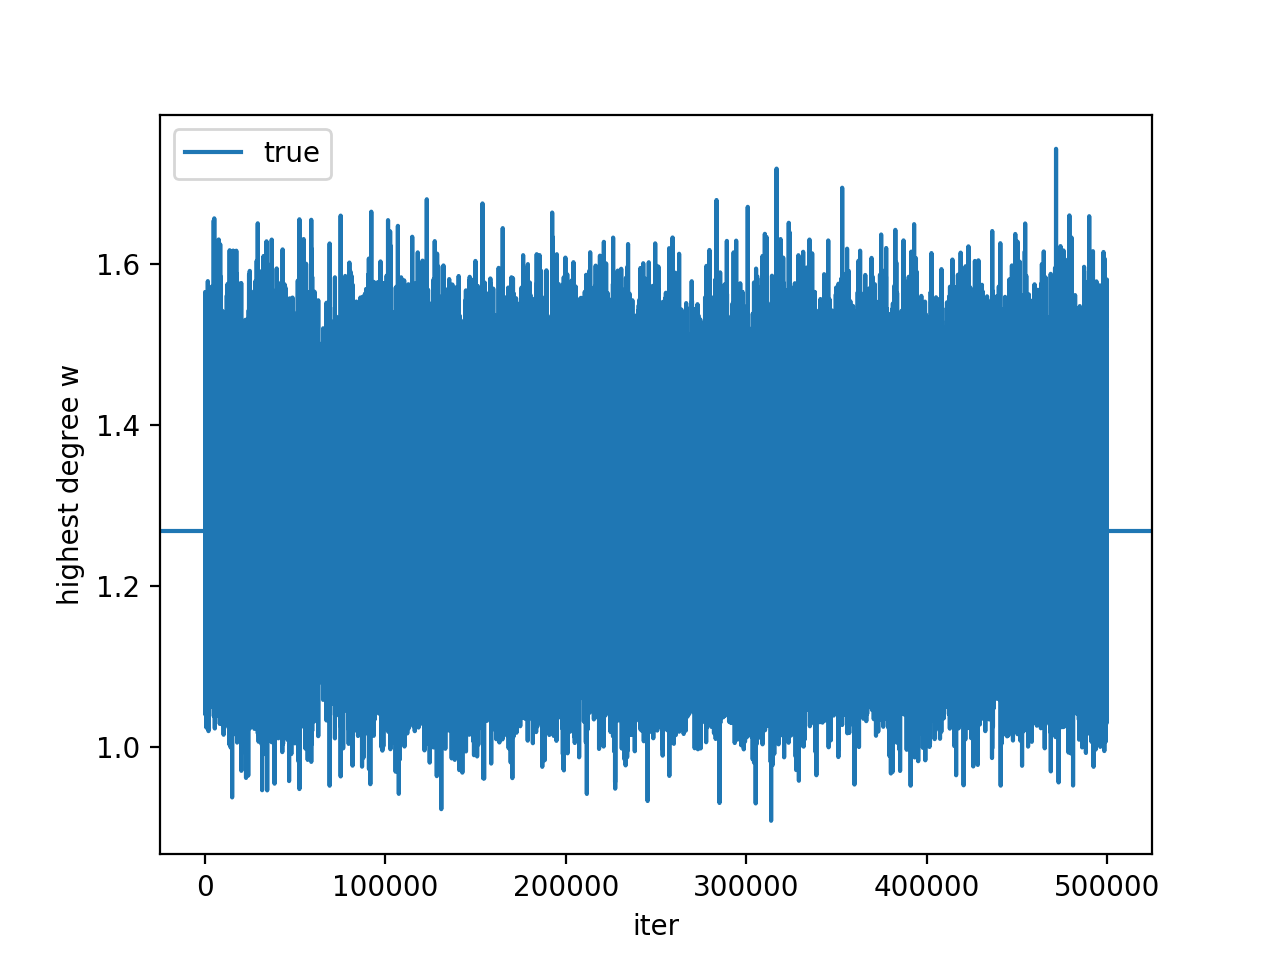
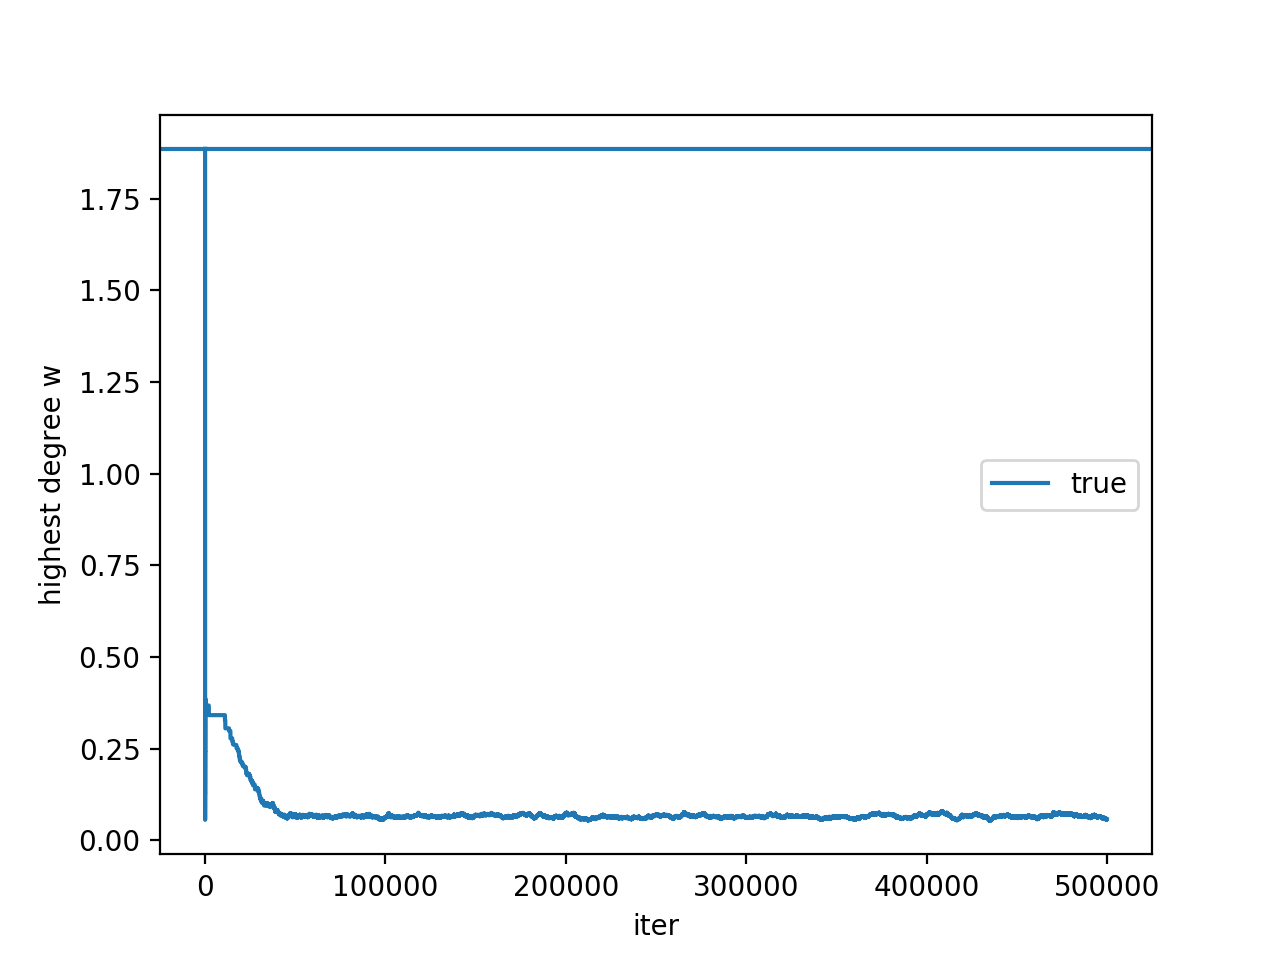
experiment 3 chains rand3

diff --git a/PosteriorInferenceNew.py b/PosteriorInferenceNew.py
@@ -16,12 +16,12 @@ sigma = 0.4  # shape generalized gamma process
 c = 2  # rate generalized gamma process
 tau = 5  # only for doublepl
 
-gamma = 2  # exponent distance in the link probability
+gamma = 0  # exponent distance in the link probability
 size_x = 1  # space threshold: [0, size_x]
 
 K = 100  # number of layers, for layers sampler
 T = 0.000001  # threshold for simulations of weights from truncated infinite activity CRMs
-L = 1000  # tot number of nodes in finite approx of weights simulations (exptiltBFRY)
+L = 2000  # tot number of nodes in finite approx of weights simulations (exptiltBFRY)
 
 # prior parameters of t \sim gamma(a_t, b_t)
 a_t = 200
@@ -269,6 +269,7 @@ w_inference = 'HMC'
 #                    sigma_true=sigma, c_true=c, t_true=t, tau_true=tau,
 #                    w0_true=w0, w_true=w, beta_true=beta, n_true=n, u_true=u)
 # end = time.time()
+# print('minutes to produce the sample (true): ', round((end - start) / 60, 2))
 
 start2 = time.time()
 output2 = mcmc.MCMC(prior, G, gamma, size, iter, nburn, p_ij=p_ij,
@@ -325,8 +326,6 @@ print('minutes to produce the sample (chain 3 rand): ', round((end4 - start4) / 
 # true0_in_ci = [emp0_ci_95[i][0] <= w[i] <= emp0_ci_95[i][1] for i in range(size)]
 # print('posterior coverage of true w in chain 1 = ', sum(true0_in_ci) / len(true0_in_ci) * 100, '%')
 
-# print('minutes to produce the sample (true): ', round((end - start) / 60, 2))
-
 
 # # ----------------------------------
 # # All together - TRUE INIT
@@ -339,7 +338,7 @@ print('minutes to produce the sample (chain 3 rand): ', round((end4 - start4) / 
 # plt.axhline(y=log_post, color='r')
 # plt.xlabel('iter')
 # plt.ylabel('log_post')
-# plt.savefig('images/all_trueinit2/logpost')
+# plt.savefig('images/all_trueinit3/logpost')
 # plt.close()
 #
 # plt.figure()
@@ -348,7 +347,7 @@ print('minutes to produce the sample (chain 3 rand): ', round((end4 - start4) / 
 # plt.axhline(y=sigma, label='true', color='r')
 # plt.xlabel('iter')
 # plt.ylabel('sigma')
-# plt.savefig('images/all_trueinit2/sigma')
+# plt.savefig('images/all_trueinit3/sigma')
 # plt.close()
 #
 # plt.figure()
@@ -357,7 +356,7 @@ print('minutes to produce the sample (chain 3 rand): ', round((end4 - start4) / 
 # plt.axhline(y=c, color='r')
 # plt.xlabel('iter')
 # plt.ylabel('c')
-# plt.savefig('images/all_trueinit2/c')
+# plt.savefig('images/all_trueinit3/c')
 # plt.close()
 #
 # plt.figure()
@@ -366,7 +365,7 @@ print('minutes to produce the sample (chain 3 rand): ', round((end4 - start4) / 
 # plt.axhline(y=t, color='r')
 # plt.xlabel('iter')
 # plt.ylabel('t')
-# plt.savefig('images/all_trueinit2/t')
+# plt.savefig('images/all_trueinit3/t')
 # plt.close()
 #
 # plt.figure()
@@ -380,7 +379,7 @@ print('minutes to produce the sample (chain 3 rand): ', round((end4 - start4) / 
 # plt.xlabel('iter')
 # plt.ylabel('highest degree w')
 # plt.legend()
-# plt.savefig('images/all_trueinit2/w0_trace')
+# plt.savefig('images/all_trueinit3/w0_trace')
 # plt.close()
 # # plot empirical 95% ci for highest and lowest degrees nodes
 # plt.figure()
@@ -432,7 +431,7 @@ print('minutes to produce the sample (chain 3 rand): ', round((end4 - start4) / 
 #     plt.plot(i + 1, np.log(small_w[i]), color='navy', marker='o', markersize=5)
 # plt.ylabel('log w')
 # plt.subplots_adjust(left=None, bottom=None, right=None, top=None, wspace=0.5, hspace=None)
-# plt.savefig('images/all_trueinit2/w0_CI')
+# plt.savefig('images/all_trueinit3/w0_CI')
 # plt.close()
 #
 # # u_est = output[8]
@@ -448,17 +447,17 @@ print('minutes to produce the sample (chain 3 rand): ', round((end4 - start4) / 
 # plt.figure()
 # plt.acorr(output[3], detrend=plt.mlab.detrend_mean, maxlags=100)
 # plt.xlim(0, 100)
-# plt.savefig('images/all_trueinit2/autocor_sigma')
+# plt.savefig('images/all_trueinit3/autocor_sigma')
 # plt.close()
 # plt.figure()
 # plt.acorr(output[4], detrend=plt.mlab.detrend_mean, maxlags=100)
 # plt.xlim(0, 100)
-# plt.savefig('images/all_trueinit2/autocor_c')
+# plt.savefig('images/all_trueinit3/autocor_c')
 # plt.close()
 # plt.figure()
 # plt.acorr(output[5], detrend=plt.mlab.detrend_mean, maxlags=100)
 # plt.xlim(0, 100)
-# plt.savefig('images/all_trueinit2/autocor_t')
+# plt.savefig('images/all_trueinit3/autocor_t')
 # plt.close()
 
 # ----------------------------------
@@ -474,7 +473,7 @@ plt.plot(output4[10], color='blue')
 plt.axhline(y=log_post, label='true', color='r')
 plt.xlabel('iter')
 plt.ylabel('log_post')
-plt.savefig('images/all_rand2/log_post')
+plt.savefig('images/all_rand3/log_post')
 plt.close()
 
 plt.figure()
@@ -484,7 +483,7 @@ plt.plot(output4[3], color='blue')
 plt.axhline(y=sigma, label='true', color='r')
 plt.xlabel('iter')
 plt.ylabel('sigma')
-plt.savefig('images/all_rand2/sigma')
+plt.savefig('images/all_rand3/sigma')
 plt.close()
 
 plt.figure()
@@ -494,7 +493,7 @@ plt.plot(output4[4], color='blue')
 plt.axhline(y=c, label='true', color='r')
 plt.xlabel('iter')
 plt.ylabel('c')
-plt.savefig('images/all_rand2/c')
+plt.savefig('images/all_rand3/c')
 plt.close()
 
 plt.figure()
@@ -504,7 +503,7 @@ plt.plot(output4[5], color='blue')
 plt.axhline(y=t, label='true', color='r')
 plt.xlabel('iter')
 plt.ylabel('t')
-plt.savefig('images/all_rand2/t')
+plt.savefig('images/all_rand3/t')
 plt.close()
 
 # CHAIN 1
@@ -520,7 +519,7 @@ plt.axhline(y=biggest_w, label='true')
 plt.xlabel('iter')
 plt.ylabel('highest degree w')
 plt.legend()
-plt.savefig('images/all_rand2/w0_trace_chain1')
+plt.savefig('images/all_rand3/w0_trace_chain1')
 plt.close()
 # plot empirical 95% ci for highest and lowest degrees nodes
 plt.figure()
@@ -528,7 +527,8 @@ w_est_fin = [w_est[i] for i in range(nburn, iter)]
 emp0_ci_95 = [
     scipy.stats.mstats.mquantiles([w_est_fin[i][j] for i in range(iter - nburn)], prob=[0.025, 0.975])
     for j in range(size)]
-true0_in_ci = [emp0_ci_95[i][0] <= w[i] <= emp0_ci_95[i][1] for i in range(size)]
+print(sum([emp0_ci_95[i][0] <= w[i] <= emp0_ci_95[i][1] for i in range(size)]))
+# true0_in_ci = [emp0_ci_95[i][0] <= w[i] <= emp0_ci_95[i][1] for i in range(size)]
 # print('posterior coverage of true w in chain 1 = ', sum(true0_in_ci) / len(true0_in_ci) * 100, '%')
 deg = np.array(list(dict(G.degree()).values()))
 size = len(deg)
@@ -572,7 +572,7 @@ for i in range(num):
     plt.plot(i + 1, np.log(small_w[i]), color='navy', marker='o', markersize=5)
 plt.ylabel('log w')
 plt.subplots_adjust(left=None, bottom=None, right=None, top=None, wspace=0.5, hspace=None)
-plt.savefig('images/all_rand2/w0_CI_chain1')
+plt.savefig('images/all_rand3/w0_CI_chain1')
 plt.close()
 
 # u_est = output2[8]
@@ -596,7 +596,7 @@ plt.axhline(y=biggest_w, label='true')
 plt.xlabel('iter')
 plt.ylabel('highest degree w')
 plt.legend()
-plt.savefig('images/all_rand2/w0_trace_chain2')
+plt.savefig('images/all_rand3/w0_trace_chain2')
 plt.close()
 # plot empirical 95% ci for highest and lowest degrees nodes
 plt.figure()
@@ -648,7 +648,7 @@ for i in range(num):
     plt.plot(i + 1, np.log(small_w[i]), color='navy', marker='o', markersize=5)
 plt.ylabel('log w')
 plt.subplots_adjust(left=None, bottom=None, right=None, top=None, wspace=0.5, hspace=None)
-plt.savefig('images/all_rand2/w0_CI_chain2')
+plt.savefig('images/all_rand3/w0_CI_chain2')
 plt.close()
 
 # u_est = output3[8]
@@ -672,15 +672,14 @@ plt.axhline(y=biggest_w, label='true')
 plt.xlabel('iter')
 plt.ylabel('highest degree w')
 plt.legend()
-plt.savefig('images/all_rand2/w0_trace_chain3')
+plt.savefig('images/all_rand3/w0_trace_chain3')
 plt.close()
 # plot empirical 95% ci for highest and lowest degrees nodes
 plt.figure()
 w_est_fin = [w_est[i] for i in range(nburn, iter)]
-emp0_ci_95 = [
-    scipy.stats.mstats.mquantiles([w_est_fin[i][j] for i in range(iter - nburn)], prob=[0.025, 0.975])
-    for j in range(size)]
-true0_in_ci = [emp0_ci_95[i][0] <= w[i] <= emp0_ci_95[i][1] for i in range(size)]
+print(sum([emp0_ci_95[i][0] <= w[i] <= emp0_ci_95[i][1] for i in range(size)]))
+# print(sum([emp0_ci_95[i][0] <= w[i] <= emp0_ci_95[i][1] for i in range(size)]))
+# true0_in_ci = [emp0_ci_95[i][0] <= w[i] <= emp0_ci_95[i][1] for i in range(size)]
 # print('posterior coverage of true w in chain 3 = ', sum(true0_in_ci) / len(true0_in_ci) * 100, '%')
 deg = np.array(list(dict(G.degree()).values()))
 size = len(deg)
@@ -724,7 +723,7 @@ for i in range(num):
     plt.plot(i + 1, np.log(small_w[i]), color='navy', marker='o', markersize=5)
 plt.ylabel('log w')
 plt.subplots_adjust(left=None, bottom=None, right=None, top=None, wspace=0.5, hspace=None)
-plt.savefig('images/all_rand2/w0_CI_chain3')
+plt.savefig('images/all_rand3/w0_CI_chain3')
 plt.close()
 
 # u_est = output4[8]
@@ -740,47 +739,47 @@ plt.close()
 plt.figure()
 plt.acorr(output2[3], detrend=plt.mlab.detrend_mean, maxlags=100)
 plt.xlim(0, 100)
-plt.savefig('images/all_rand2/autocor_sigma_chain1')
+plt.savefig('images/all_rand3/autocor_sigma_chain1')
 plt.close()
 plt.figure()
 plt.acorr(output3[3], detrend=plt.mlab.detrend_mean, maxlags=100)
 plt.xlim(0, 100)
-plt.savefig('images/all_rand2/autocor_sigma_chain2')
+plt.savefig('images/all_rand3/autocor_sigma_chain2')
 plt.close()
 plt.figure()
 plt.acorr(output4[3], detrend=plt.mlab.detrend_mean, maxlags=100)
 plt.xlim(0, 100)
-plt.savefig('images/all_rand2/autocor_sigma_chain3')
+plt.savefig('images/all_rand3/autocor_sigma_chain3')
 plt.close()
 plt.figure()
 plt.acorr(output2[4], detrend=plt.mlab.detrend_mean, maxlags=100)
 plt.xlim(0, 100)
-plt.savefig('images/all_rand2/autocor_c_chain1')
+plt.savefig('images/all_rand3/autocor_c_chain1')
 plt.close()
 plt.figure()
 plt.acorr(output3[4], detrend=plt.mlab.detrend_mean, maxlags=100)
 plt.xlim(0, 100)
-plt.savefig('images/all_rand2/autocor_c_chain2')
+plt.savefig('images/all_rand3/autocor_c_chain2')
 plt.close()
 plt.figure()
 plt.acorr(output4[4], detrend=plt.mlab.detrend_mean, maxlags=100)
 plt.xlim(0, 100)
-plt.savefig('images/all_rand2/autocor_c_chain3')
+plt.savefig('images/all_rand3/autocor_c_chain3')
 plt.close()
 plt.figure()
 plt.acorr(output2[5], detrend=plt.mlab.detrend_mean, maxlags=100)
 plt.xlim(0, 100)
-plt.savefig('images/all_rand2/autocor_t_chain1')
+plt.savefig('images/all_rand3/autocor_t_chain1')
 plt.close()
 plt.figure()
 plt.acorr(output3[5], detrend=plt.mlab.detrend_mean, maxlags=100)
 plt.xlim(0, 100)
-plt.savefig('images/all_rand2/autocor_t_chain2')
+plt.savefig('images/all_rand3/autocor_t_chain2')
 plt.close()
 plt.figure()
 plt.acorr(output4[5], detrend=plt.mlab.detrend_mean, maxlags=100)
 plt.xlim(0, 100)
-plt.savefig('images/all_rand2/autocor_t_chain3')
+plt.savefig('images/all_rand3/autocor_t_chain3')
 plt.close()
 
 # Gelman Rubin

diff --git a/utils/UpdatesNew_fast.py b/utils/UpdatesNew_fast.py
@@ -174,35 +174,3 @@ def HMC_w(prior, w, w0, beta, n, u, sigma, c, t, tau, z, gamma, p_ij, a_t, b_t,
         log_post = log_post_prop
         log_post_param = log_post_par_prop
     return w, w0, beta, accept, rate, log_post, log_post_param
-
-
-# def HMC_w(prior, w, w0, beta, n, u, sigma, c, t, tau, z, gamma, p_ij, a_t, b_t,
-#           epsilon, R, accept, size, update_beta=True):
-#     sum_n0 = lil_matrix.sum(n, axis=0)
-#     sum_n1 = lil_matrix.sum(n, axis=1)
-#     sum_n = sum(sum_n0 + np.transpose(sum_n1))
-#     temp1 = sum_n + u - sigma
-#     pw_outer = np.dot(w, sum(w))
-#     temp2 = (c + z) * w
-#     p = np.random.normal(0, 1, size)
-#     logw_prop = np.log(w)
-#     p_prop = p + epsilon / 2 * loggrad(temp1, temp2, pw_outer)
-#     for r in range(1, R):
-#         logw_prop = logw_prop + epsilon * p_prop
-#         w_prop = np.exp(logw_prop)
-#         pw_outer = np.dot(w_prop, sum(w_prop))
-#         temp2 = (c + z) * w_prop
-#         p_prop = p_prop + epsilon * loggrad(temp1, temp2, pw_outer) if r != (R-1) else \
-#             p_prop + epsilon / 2 * loggrad(temp1, temp2, pw_outer)
-#     log_r = aux.log_post_logwbeta_params(prior, sigma, c, t, tau, w_prop, w_prop, beta, n, u, p_ij, a_t, b_t, gamma,
-#                                          sum_n=sum_n) - \
-#             aux.log_post_logwbeta_params(prior, sigma, c, t, tau, w, w0, beta, n, u, p_ij, a_t, b_t, gamma,
-#                                          sum_n=sum_n) - sum(p_prop ** 2 - p ** 2) / 2
-#     rate = min(1, np.exp(log_r))
-#     # accept step
-#     if np.random.rand(1) < rate:
-#         w = w_prop
-#         w0 = w_prop
-#         beta = beta
-#         accept = accept + 1
-#     return w, w0, beta, accept, rate
